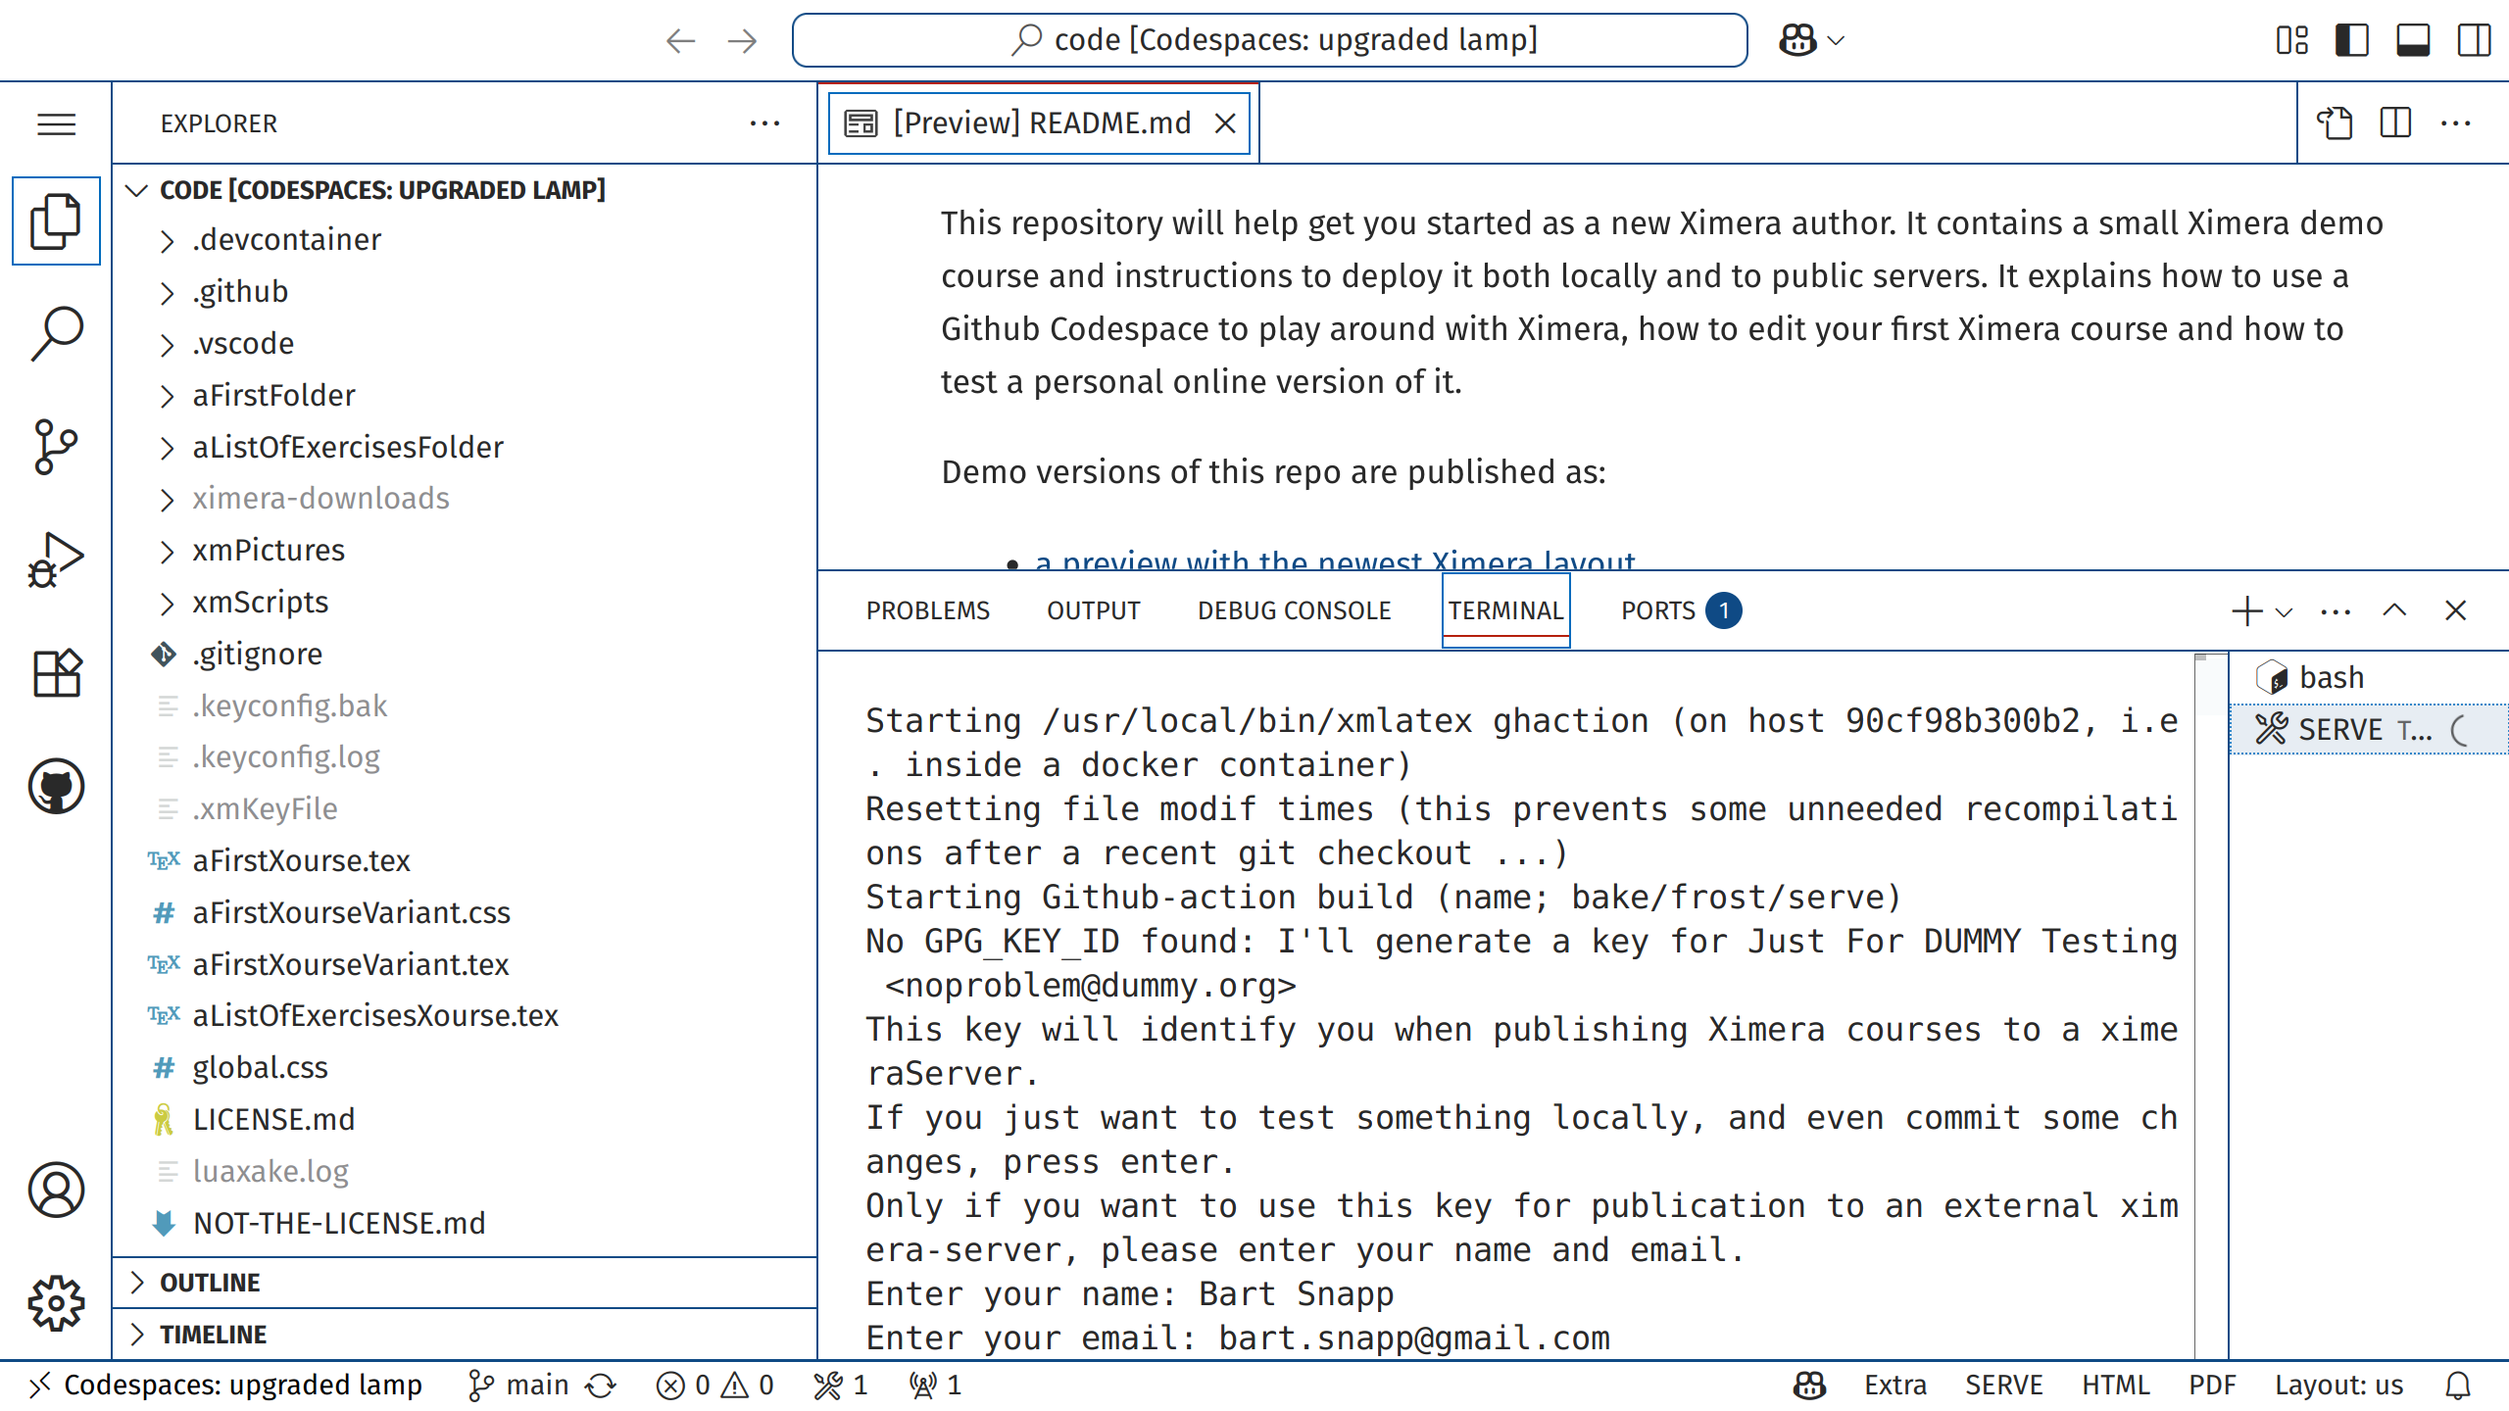
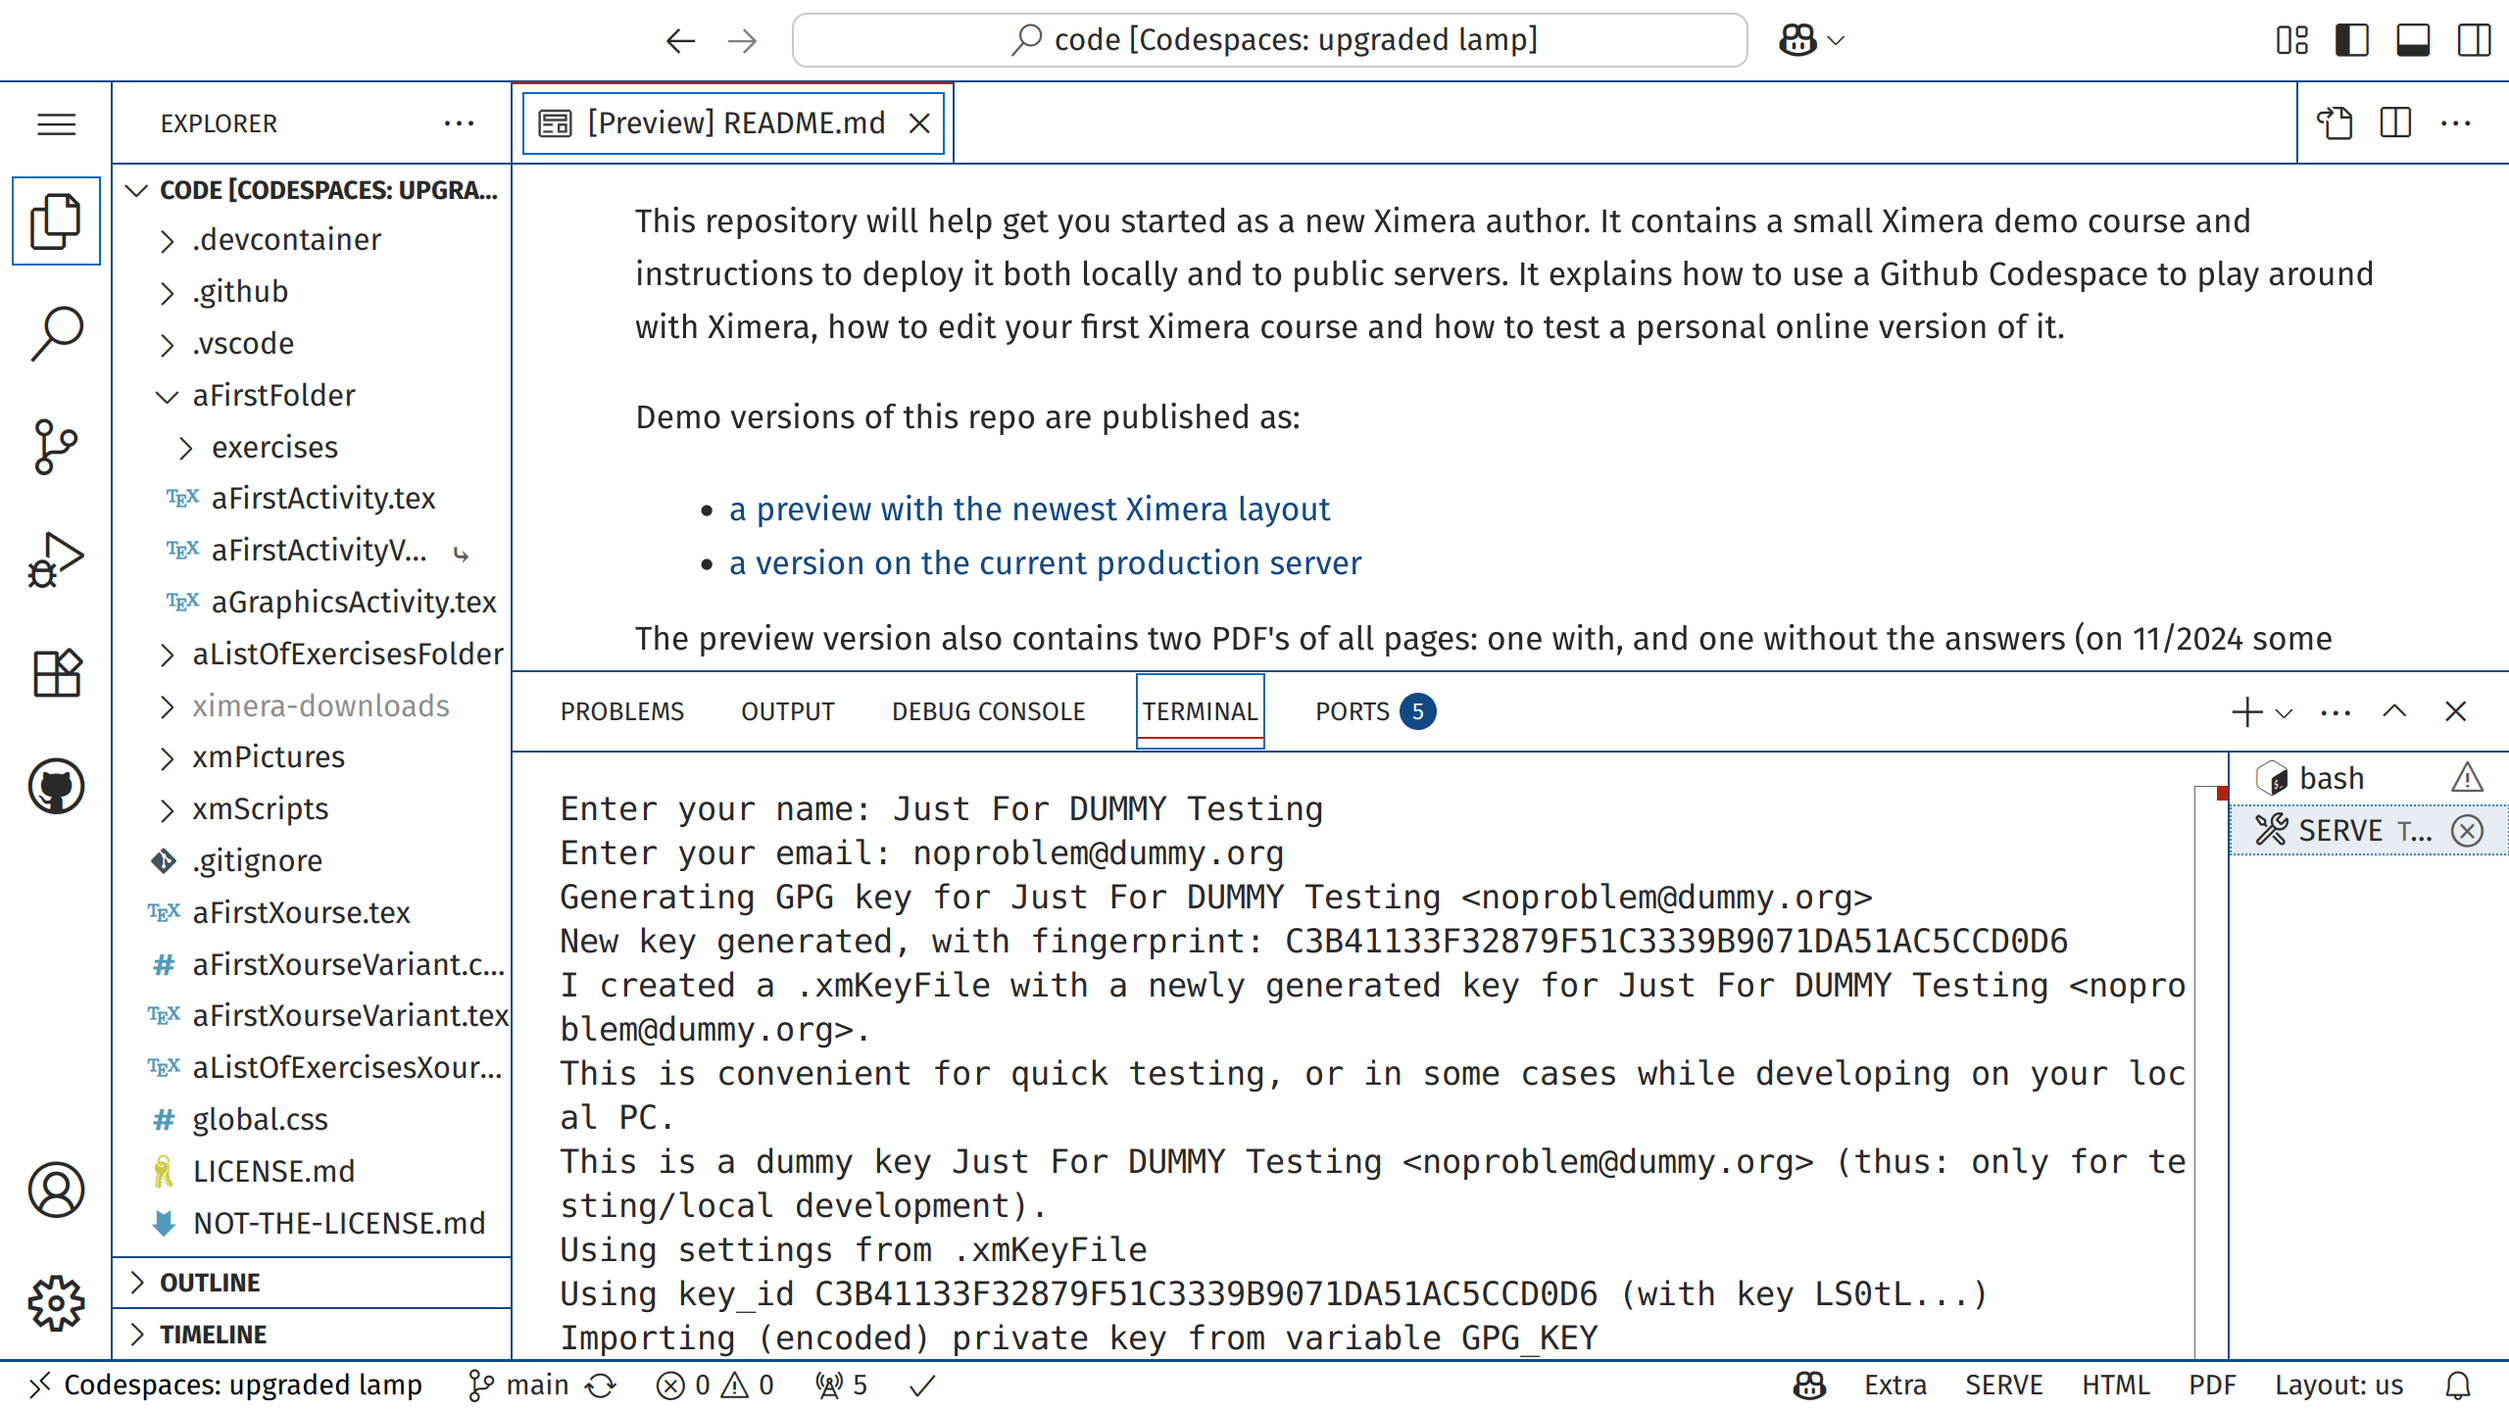
added more content

diff --git a/gettingWorkDone/deploying.tex b/gettingWorkDone/deploying.tex
@@ -25,17 +25,27 @@
 
     If you are deploying legacy Ximera material, you may need to contact Ximera
     developers to obtain a proper key. If you are deploying new Ximera content,
-    you can get your own GPG key by running the command:
-    \begin{verbatim}
-xmlatex genKey
-\end{verbatim}
-    in either a codespace or a Docker container. You'll get a \verb!GPG_KEY_ID!
-    that looks something like:
-    \begin{verbatim}
-215FC33FAB44D5CCA31A04B2CC78CB561FDC49A8
-\end{verbatim}
-    and a \verb!GPG_KEY! that looks something like:
-    {\pdfOnly\footnotesize\begin{verbatim}
+    you can get your own GPG key by pressing ``SERVE'' in a fresh codespace. If you do this, and you want to ``officially'' deploy, you should tell us your name and email address:
+\pdfOnly{\end{multicols}}\enlargethispage{2em}
+\begin{image}
+    \includegraphics[width=.7\textwidth]{xfsEmail}
+\end{image}
+\pdfOnly{\newpage}
+\pdfOnly{\begin{multicols*}{2}}
+Open the file (using `hamburger' $\to$ File $\to$ open-file) \verb!.xmKeyFile!. It should look something like this: 
+{\pdfOnly{\footnotesize}\begin{verbatim}
+#
+# This file contains a private GPG key for 
+# Bart Snapp <bart.snapp@gmail.com> 
+# to publish Ximera courses.
+#
+# These settings will be overwritten 
+# by existing environment variables GPG_KEY_ID and GPG_KEY
+#
+#   *** DO NEVER COMMIT THIS FILE ***
+#
+GPG_KEY_ID=215FC33FAB44D5CCA31A04B2CC78CB561FDC49A8
+GPG_KEY="\
[3 lines of base64/hex data omitted]
@@ -50,14 +60,39 @@ clJOWE1veG9Fc3N4NHkxWWYzRW1vQlFKbThBQUNBaHNNQlFrRm81cUFBQW9KRU14NHkxWWYKM0Vt
[2 lines of base64/hex data omitted]
 UEdQIFBSSVZBVEUgS0VZIEJMT0NLLS0tLS0K
+"
 \end{verbatim}
-    }
-    Copy and paste these into a file but \textbf{do not commit them to the
-        repository}. If you do, and you use the key to deploy, others will be
-    able to
-    overwrite your interactive content.
+}
+\pdfOnly\columnbreak
+    In this case, the \verb!GPG_KEY_ID! is:
+    \begin{verbatim}
+215FC33FAB44D5CCA31A04B2CC78CB561FDC49A8
+\end{verbatim}
+    and the \verb!GPG_KEY! is: 
+    {\pdfOnly{\footnotesize}\begin{verbatim}
[13 lines of base64/hex data omitted]
+UEdQIFBSSVZBVEUgS0VZIEJMT0NLLS0tLS0K
+\end{verbatim}%%
+}
+Copy and paste the contents of \verb!.xmKeyFile! to a  file on your computer for safe-keeping, but \textbf{do not commit it to the
+repository}. If you do, and you use the key to deploy, others will be
+able to overwrite your interactive content.
 
-    \pdfOnly{\end{multicols}}
+\pdfOnly{\end{multicols*}}
+
+
 \begin{image}
     \includegraphics[width=.7\textwidth]{deploySettings.png}
 \end{image}

diff --git a/furtherInfo/accessibility.tex b/furtherInfo/accessibility.tex
@@ -20,8 +20,8 @@ to ensure that our content meets these standards.
 Of course, meeting a technical standard does not imply that content will still be accessible to every user with a disability. 
 It is important that instructors include an \link[accessibility statement]{https://www.w3.org/WAI/planning/statements/} for their
 students. Depending on the institution's organization, the contact person may be the disability resources office, an instructional designer, 
-or even another faculty member. If you wish to verify that your course meets WCAG2.1AA, you may email \link[Jeffrey Kuan]{mailto:kuan.44@osu.edu},
-who can use a variety of screen readers and automatic accessibility checkers. Do NOT claim that your course is WCAG2.1AA compliant
+or even another faculty member. If you wish to verify that your course meets WCAG 2.1 AA, you may email \link[Jeffrey Kuan]{mailto:kuan.44@osu.edu},
+who can use a variety of screen readers and automatic accessibility checkers. Do NOT claim that your course is WCAG 2.1 AA compliant
 without a manual human verification. 
 
 \section{Current features}
@@ -32,7 +32,7 @@ can be edited so that screenreaders like NVDA, JAWS, VoiceOver and Narrator can 
 institution licenses EquatIO for your students. 
 
 \subsection{Lists}
-Using itemize, enumerate and description environments in LaTeX will correctly create unordered, ordered and description lists (respectively) in HTML. We do not offer custom list labeling, although
+Using itemize, enumerate and description environments in \LaTeX\ will correctly create unordered, ordered and description lists (respectively) in HTML. We do not offer custom list labeling, although
 labels can be modified in the CSS file (this will be done later). The references list will be displayed as a description list, which is the \link[recommendation of the DAISY consortium]{http://kb.daisy.org/publishing/docs/html/bibliographies.html}.
 
 \subsection{Desmos and Geogebra}
@@ -43,18 +43,18 @@ Both \link[Desmos]{https://www.desmos.com/accessibility} and \link[Geogebra]{htt
 
 \subsection{MathML4.0}
 As of the current date (June 25, 2025), we are still waiting for the final release of MathML4.0, which is planned for August 2025.
-One notable feature will be the ``intent'' environment, which allows the author to insert their intended text--to--speech for
+One notable feature will be the ``intent'' environment, which allows the author to insert their intended text-to-speech for
 math symbols. For example, 
 \[
 a(b+c) = ab + ac
 \]
 can be read as ``a times the quantity b plus c equals a b plus a c'' rather than ``a left paren b plus c right paren equals ab plus ac.''
 Historically, this would be called ``alternative text''; for a variety of reasons, that terminology is somewhat outdated. 
-We will add a LaTeX command or environment, probably called ``intent'', that will insert the author's intended text--to--speech in the
+We will add a \LaTeX\ command or environment, probably called ``intent'', that will insert the author's intended text-to-speech in the
 webpage. 
 
 \subsection{Tables}
-Tables will need to have headers and scopes from the LaTeX code. This will soon be implemented with tabularray. 
+Tables will need to have headers and scopes from the \LaTeX\ code. This will soon be implemented with the \LaTeX\ package \verb!tabularray!. 
 
 
 \subsection{Headers}
@@ -65,7 +65,7 @@ The problem, exercise, and question environments will need to have appropriate h
 In the future, screen readers will be able to inform readers if their answers are correct or incorrect.  
 
 \subsection{Navigation}
-We will work with experts at Ohio State University who have worked on the navgiability of webpages. 
+We will work with experts at Ohio State University who have worked on the navigability of webpages. 
 
 
 

diff --git a/introductionAndSetup/firstStepsInXimera.tex b/introductionAndSetup/firstStepsInXimera.tex
@@ -28,7 +28,7 @@
         coding, designed to
         help teams work together and track progress. Go to
         \url{https://github.com} and
-        either sign-up or log-in. Note, you must know your \textbf{username}
+        either \textbf{sign-up} or \textbf{log-in}. Note, you must know your \textbf{username}
         and
         \textbf{password}, so store them in a safe place; like in a safe, or
         under your
@@ -37,9 +37,8 @@
             \url{https://github.com/ximeraProject/ximeraFirstSteps}
             %% 230% on my horiz screen
         \end{center}
-
         You will see something like this:
-        \pdfOnly{\end{multicols}}
+        \pdfOnly{\end{multicols}}\enlargethispage{1.5em}
 \begin{image}
     \includegraphics[width=.7\textwidth]{xfsTemplate}
 \end{image}
@@ -59,6 +58,10 @@
         be found at
         \begin{center}
             \verb!https://github.com/YOUR-GIT-USER-NAME/YOUR-REPO-NAME!
+        \end{center}
+        In this case, the URL would be: 
+        \begin{center}
+            \verb!https://github.com/bartsnapp/bartXimeraTest!
         \end{center}
         \newpage
         \pdfOnly{\end{multicols}}
@@ -81,7 +84,7 @@
         machine.
         Moreover, \textbf{Ximera developers} can go to your GitHub page, start
         their
-        own codespace, and try out your code and help with possible issues.
+        own codespace, and try out your code and directly help with possible issues.
 
         \pdfOnly{\end{multicols*}}
 
@@ -92,7 +95,7 @@
 \end{image}
 \pdfOnly{\begin{multicols*}{2}}
         Once the codespace is created, you will see something like what we have
-        above. This is Visual Studio Code (VS Code) running within your browser. This
+        above. This is Visual Studio Code (VS Code) running within your browser. VS Code
         is a powerful text-editor with many extensions. We use it write Ximera content.
         On the far left, you see a vertical list of icons. Currently, ``EXPLORER'' is
         selected, it looks like ``pages of paper.'' Moving right, we see the files in
@@ -107,12 +110,12 @@
         At this point, you will want to press the```SERVE'' button. This will
         compile the entire repository and deploy it to a local server. As part of this process, 
         we will generate a GPG Key, that we use to help sign content online. 
-        If you are simply playing with Ximera, you can just hit ``enter.''
+        If you are simply playing with Ximera, you can just hit ``enter'' \textit{twice}.
 
 
 
-        On the other hand, if you wish to deploy to a consistent site, 
-        you should look at the section \textit{Deploying Ximera documents}.  
+        We will discuss deploying Ximera content to the open web in a later section.
+        
         \pdfOnly{\end{multicols*}}
 
 \newpage
@@ -136,7 +139,7 @@
         the
         content in your browser.
 
-        You may delete your codespace (you can simply restart it) and others
+        You may delete your codespace (you can simply recreate it) and others
         can come
         to your GitHub repository, start a codespace, and check out and compile
         your

diff --git a/gettingWorkDone/githubSetup.tex b/gettingWorkDone/githubSetup.tex
@@ -23,19 +23,16 @@ When you are logged in to GitHub, you
 will in both cases have the option to make a new repository using the green ``Use this
 template'' button. Once the template is made, you are ready to go!
 
-\paragraph{To deploy an existing repository from a codespace} copy the
+\paragraph{To deploy an existing repository} copy the
 following files from either \verb!ximeraFirstSteps! or \verb!ximeraNewProject!
 into your repository.
-\begin{description}
-    \item[\texttt{.devcontainer/}] (folder needed to be able to start 
-          a
-          GitHub codespace)
-    \item[\texttt{xmScripts/}] folder with the Ximera build and deploy script and config.
-    \item[\texttt{.vscode/}] folder with VS Code
-        settings, e.g.  the buttons for Ximera compilation.
-    \item[\texttt{.xmKeyFile}] a `dummy' gpg-key file needed to preview your work in a Codespace.
-    \item[\texttt{.gitignore}]  \textbf{replace yours or merge them} if you alrady have one.
-\end{description}
+        \begin{description}
+            \item[\texttt{.devcontainer/}] (optional: provides a Codespace setup) 
+            \item[\texttt{xmScripts/}]  (build scripts and config)
+            \item[\texttt{global.css}] (gives some configuration for online content)
+            \item[\texttt{.vscode/}]  (optional, but strongly advised)
+            \item[\texttt{.gitignore}]	(optional, but strongly advised)
+        \end{description}
 Commit your changes to GitHub and check online that the files were added.
 Start a Codespace in your repository to build, edit and preview your course.
 
@@ -65,28 +62,11 @@ Contact the Ximera developers for assistance. A typical workflow is:
           misdirection.
 \end{enumerate}
 
-Now, copy the same files as above from either \verb!ximeraFirstSteps! or
-\verb!ximeraNewProject!
-into the repository you wish to deploy.
-\begin{description}
-    \item[\texttt{.devcontainer/}] (optional: provides a Codespace setup) 
-    \item[\texttt{xmScripts/}]  (build scripts and config)
-    \item[\texttt{.vscode/}]  (optional, but strongly advised)
-    \item[\texttt{.gitignore}]	(optional, but strongly advised)
-\end{description}
-Commit your changes to GitHub and view your repository online via a web browser
-to ensure that the files were added.
-
 \begin{warning}
     If you've added \verb!.devcontainer/! to your repository and open your repository
     locally, VS Code will ask you if you want to open a Development Container.
     Probably you don't, since working locally requires Docker and VS Code and the buttons will handle the local containers.
     But if you answer ``Yes'' you can develop completely \textit{inside} a container that will run on your local computer. 
 \end{warning}
-
-Now, move the \verb!.xmKeyFile! to your repository.
-If you are deploying on your machine, \textbf{DO NOT commit the
-    \texttt{.xmKeyFile} to your repository.} This should be a non-issue as the \verb!.xmKeyFile! is in the \verb!.gitignore! file.
-    This means authors should have to ``work'' to violate this advice.
 
 \end{document}

diff --git a/ximeraUserManual.tex b/ximeraUserManual.tex
@@ -55,10 +55,10 @@
 \part{Further information}
 \sectionstyle
 \activity{furtherInfo/accessibility}
+\activity{furtherInfo/lmsIntegration}
 \activity{furtherInfo/printing}
 \activity{furtherInfo/rendering}
 \activity{furtherInfo/seeXimeraInAction}
-\activity{furtherInfo/lmsIntegration}
 \activity{furtherInfo/getHelp}
     
 \pdfOnly{\backCover}  % defined in manual.sty
